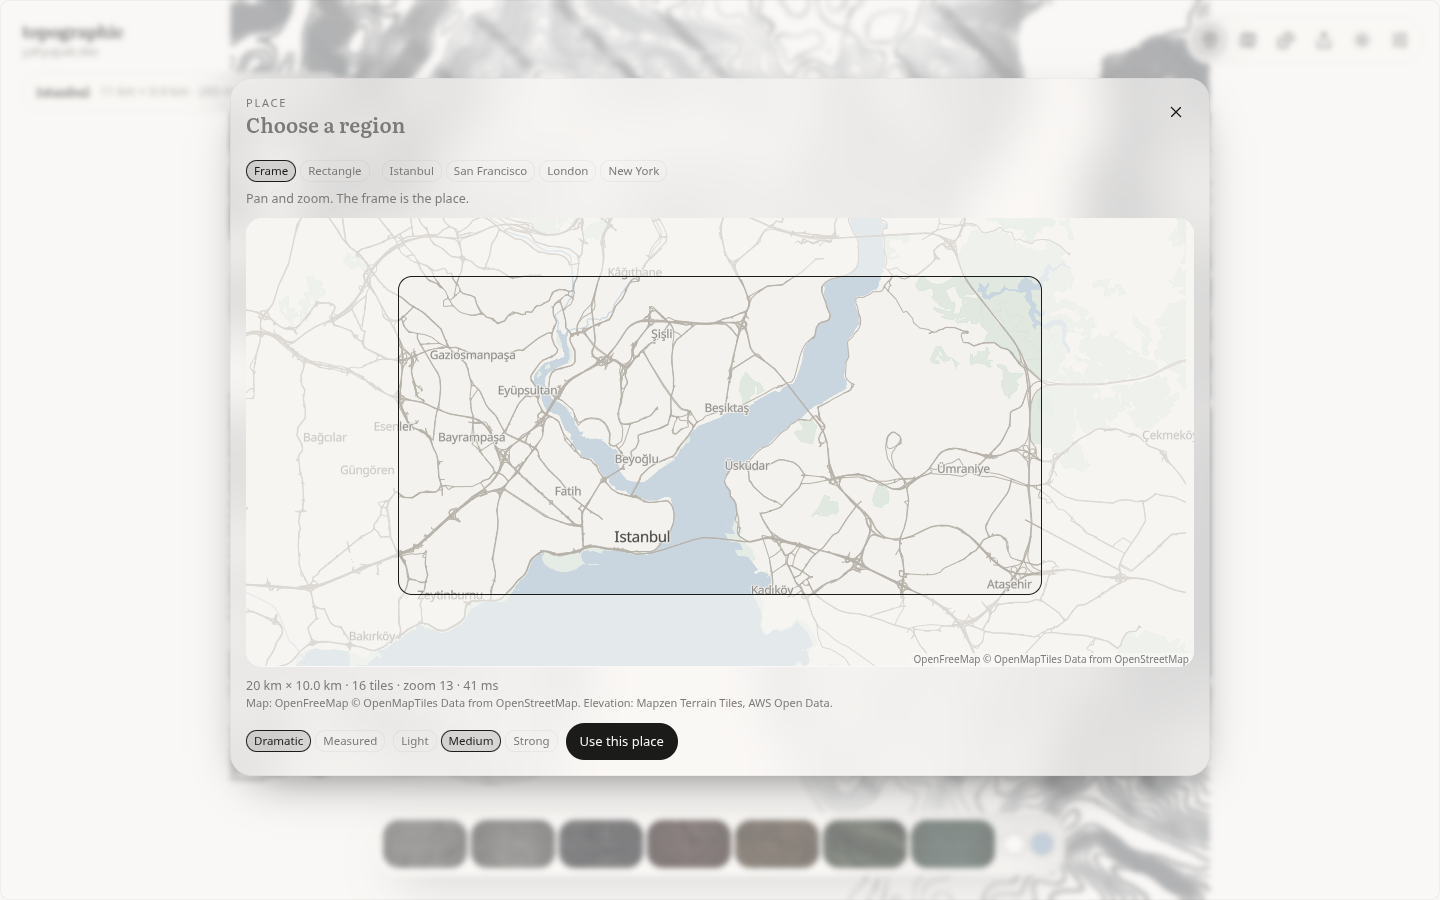
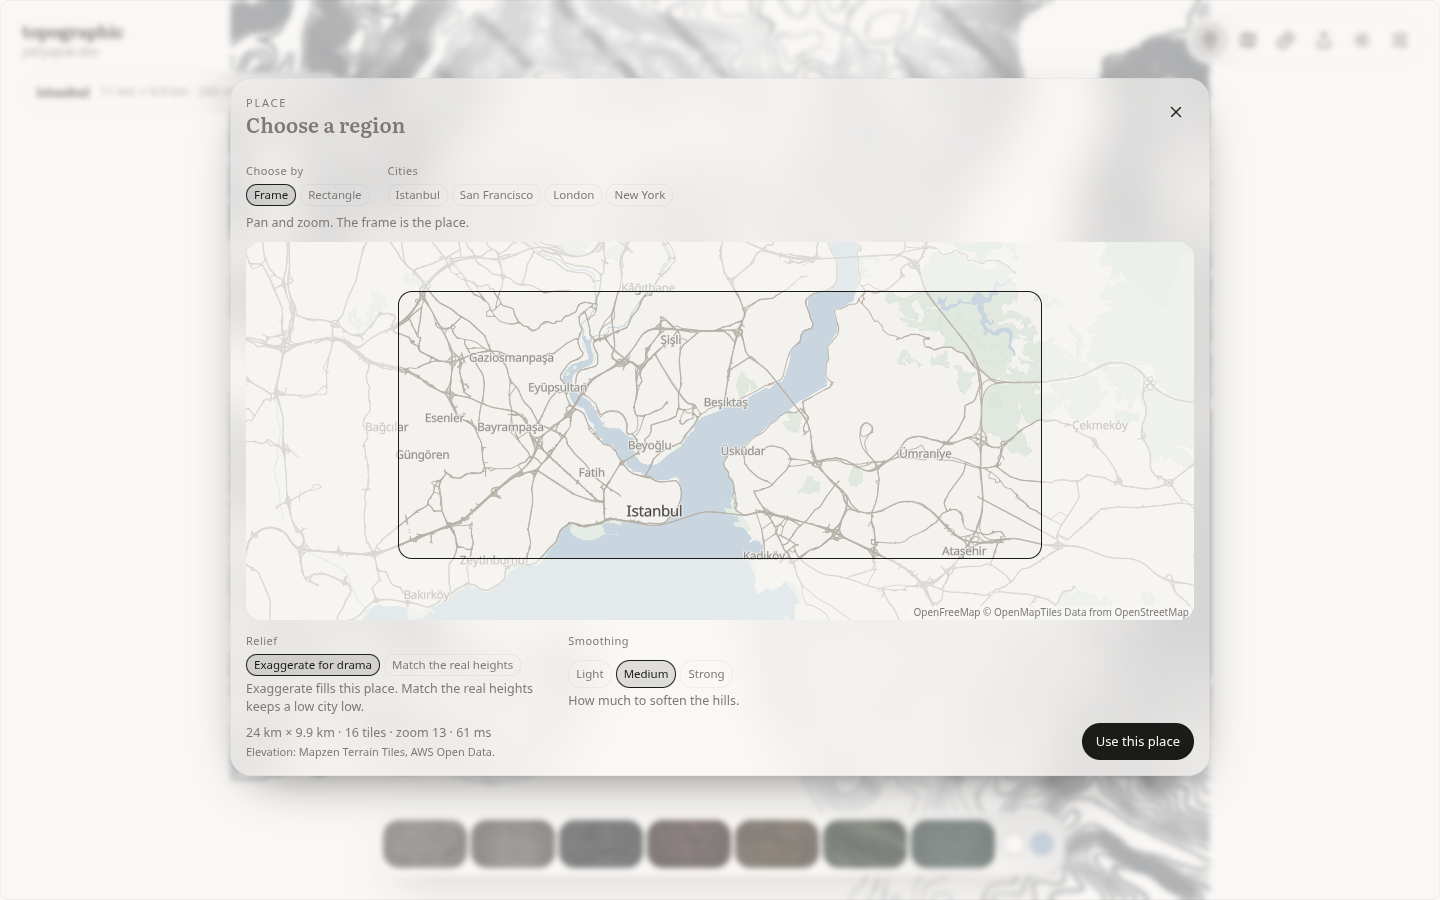
clarify the place dialog
- the line under the map keeps the elevation credit, and the map control keeps the tile credit
- relief and smoothing say what they change, and use this place sits at the bottom right
- the picker shots are reshot in light and dark

diff --git a/apps/playground/src/prototype/region/Picker.tsx b/apps/playground/src/prototype/region/Picker.tsx
@@ -6,7 +6,7 @@ import 'maplibre-gl/dist/maplibre-gl.css';
 
 setWorkerUrl(maplibreWorkerUrl);
 import { limitMessage, limitProblem, spanOf, type BBox } from './pipeline';
-import { MAP_CREDIT, mapStyle, type MapAppearance } from './basemap';
+import { mapStyle, type MapAppearance } from './basemap';
 import { findPlace, FRAME, PLACES } from './places';
 import type { RegionController } from './useRegion';
 
@@ -184,55 +184,71 @@ export function PlaceSheet({ open, onClose, region, appearance }: {
           </div>
           <button type="button" className="pt-ibtn" aria-label="Close" onClick={onClose}><X size={18} strokeWidth={1.75} /></button>
         </div>
-        <div className="pt-place-bar">
-          <div className="pt-chips" role="group" aria-label="How to pick">
-            <button type="button" className={`pt-chip${pick === 'frame' ? ' is-on' : ''}`} onClick={() => setPick('frame')}>Frame</button>
-            <button type="button" className={`pt-chip${pick === 'draw' ? ' is-on' : ''}`} onClick={() => setPick('draw')}>Rectangle</button>
+        <div className="pt-dialog-body pt-place-body">
+          <div className="pt-place-bar">
+            <div className="pt-field">
+              <span className="pt-field-name" id="pick-label">Choose by</span>
+              <div className="pt-chips" role="group" aria-labelledby="pick-label">
+                <button type="button" className={`pt-chip${pick === 'frame' ? ' is-on' : ''}`} onClick={() => setPick('frame')}>Frame</button>
+                <button type="button" className={`pt-chip${pick === 'draw' ? ' is-on' : ''}`} onClick={() => setPick('draw')}>Rectangle</button>
+              </div>
+            </div>
+            <div className="pt-field">
+              <span className="pt-field-name" id="city-label">Cities</span>
+              <div className="pt-chips" role="group" aria-labelledby="city-label">
+                {PLACES.map((place) => (
+                  <button key={place.id} type="button" className="pt-chip" onClick={() => { fly(place.bbox); region.setPlace(place.bbox, place.id); }}>
+                    {place.name}
+                  </button>
+                ))}
+              </div>
+            </div>
+            <p className="pt-hint">{pick === 'frame' ? 'Pan and zoom. The frame is the place.' : 'Drag a rectangle. Scroll to zoom.'}</p>
           </div>
-          <div className="pt-chips">
-            {PLACES.map((place) => (
-              <button key={place.id} type="button" className="pt-chip" onClick={() => { fly(place.bbox); region.setPlace(place.bbox, place.id); }}>
-                {place.name}
-              </button>
-            ))}
+          <div className={`pt-frame pt-map${pick === 'draw' ? ' is-draw' : ''}`}>
+            <div ref={host} className="pt-map-host" />
+            {pick === 'frame' && <div ref={frame} className="pt-map-frame" />}
+            {pick === 'draw' && box && box.w > 0 && <div className="pt-map-box" style={{ left: box.x, top: box.y, width: box.w, height: box.h }} />}
           </div>
-          <p className="pt-hint">{pick === 'frame' ? 'Pan and zoom. The frame is the place.' : 'Drag a rectangle. Scroll to zoom.'}</p>
         </div>
-        <div className={`pt-frame pt-map${pick === 'draw' ? ' is-draw' : ''}`}>
-          <div ref={host} className="pt-map-host" />
-          {pick === 'frame' && <div ref={frame} className="pt-map-frame" />}
-          {pick === 'draw' && box && box.w > 0 && <div className="pt-map-box" style={{ left: box.x, top: box.y, width: box.w, height: box.h }} />}
-        </div>
-        <div className="pt-place-foot">
-          <div>
-            <p className="pt-hint">
+        <footer className="pt-place-foot">
+          <div className="pt-place-groups">
+            <div className="pt-field">
+              <span className="pt-field-name" id="relief-label">Relief</span>
+              <div className="pt-chips" role="group" aria-labelledby="relief-label">
+                <button type="button" className={`pt-chip${region.relief === 'dramatic' ? ' is-on' : ''}`} onClick={() => region.setRelief('dramatic')}>Exaggerate for drama</button>
+                <button type="button" className={`pt-chip${region.relief === 'measured' ? ' is-on' : ''}`} onClick={() => region.setRelief('measured')}>Match the real heights</button>
+              </div>
+              <p className="pt-hint">Exaggerate fills this place. Match the real heights keeps a low city low.</p>
+            </div>
+            <div className="pt-field">
+              <span className="pt-field-name" id="smooth-label">Smoothing</span>
+              <div className="pt-chips" role="group" aria-labelledby="smooth-label">
+                <button type="button" className={`pt-chip${region.smooth === 'light' ? ' is-on' : ''}`} onClick={() => region.setSmooth('light')}>Light</button>
+                <button type="button" className={`pt-chip${region.smooth === 'medium' ? ' is-on' : ''}`} onClick={() => region.setSmooth('medium')}>Medium</button>
+                <button type="button" className={`pt-chip${region.smooth === 'strong' ? ' is-on' : ''}`} onClick={() => region.setSmooth('strong')}>Strong</button>
+              </div>
+              <p className="pt-hint">How much to soften the hills.</p>
+            </div>
+          </div>
+          <p className="pt-hint pt-place-meta">
+            <span>
               {problem ? limitMessage(problem) : span ? `${km(span.widthM)} × ${km(span.heightM)}` : 'Draw a rectangle.'}
               {region.info && region.status === 'ready' ? ` · ${region.info.tiles} tiles · zoom ${region.info.zoom} · ${Math.round(region.info.shapeMs)} ms` : ''}
               {region.status === 'loading' ? ' · Reading the land…' : ''}
               {region.status === 'error' && region.error ? ` · ${region.error}` : ''}
-            </p>
-            <p className="pt-hint pt-attrib">Map: {MAP_CREDIT}. Elevation: Mapzen Terrain Tiles, AWS Open Data.</p>
-          </div>
-          <div className="pt-place-actions">
-            <div className="pt-chips" role="group" aria-label="Relief">
-              <button type="button" className={`pt-chip${region.relief === 'dramatic' ? ' is-on' : ''}`} onClick={() => region.setRelief('dramatic')}>Dramatic</button>
-              <button type="button" className={`pt-chip${region.relief === 'measured' ? ' is-on' : ''}`} onClick={() => region.setRelief('measured')}>Measured</button>
-            </div>
-            <div className="pt-chips" role="group" aria-label="Smoothing">
-              <button type="button" className={`pt-chip${region.smooth === 'light' ? ' is-on' : ''}`} onClick={() => region.setSmooth('light')}>Light</button>
-              <button type="button" className={`pt-chip${region.smooth === 'medium' ? ' is-on' : ''}`} onClick={() => region.setSmooth('medium')}>Medium</button>
-              <button type="button" className={`pt-chip${region.smooth === 'strong' ? ' is-on' : ''}`} onClick={() => region.setSmooth('strong')}>Strong</button>
-            </div>
-            <button
-              type="button"
-              className="pt-use"
-              disabled={!draft || !!problem}
-              onClick={() => { if (draft && !problem) { region.setPlace(draft, null); onClose(); } }}
-            >
-              Use this place
-            </button>
-          </div>
-        </div>
+            </span>
+            <span className="pt-attrib">Elevation: Mapzen Terrain Tiles, AWS Open Data.</span>
+          </p>
+          <button
+            type="button"
+            className="pt-use"
+            disabled={!draft || !!problem}
+            onClick={() => { if (draft && !problem) { region.setPlace(draft, null); onClose(); } }}
+          >
+            Use this place
+          </button>
+        </footer>
       </div>
     </>
   );

diff --git a/apps/playground/src/prototype/prototype.css b/apps/playground/src/prototype/prototype.css
@@ -126,9 +126,13 @@ button.pt-region-name{padding:0;border:0;background:transparent;box-shadow:none;
 button.pt-region-clear{padding:4px 8px;border:0;border-radius:999px;background:transparent;box-shadow:inset 0 0 0 .5px var(--line);color:var(--mut);font-size:11px}
 button.pt-use{padding:8px 14px;border:0;border-radius:999px;background:var(--fg);color:var(--paper);font-size:13px;white-space:nowrap}
 button.pt-use:disabled{opacity:.38}
-.pt-place{grid-template-rows:auto auto minmax(0,1fr) auto;gap:10px}
-.pt-place-bar{display:flex;flex-wrap:wrap;align-items:center;gap:8px 12px}
+.pt-place{grid-template-rows:auto minmax(0,1fr) auto;gap:12px}
+.pt-place-body{min-height:0;display:grid;grid-template-rows:auto minmax(0,1fr);gap:10px}
+.pt-place-bar{display:flex;flex-wrap:wrap;align-items:flex-end;gap:8px 18px}
 .pt-place-bar .pt-hint{flex-basis:100%;margin:0}
+.pt-field{display:grid;gap:4px;justify-items:start;min-width:0}
+.pt-field-name{font-size:11px;letter-spacing:.04em;color:var(--mut)}
+.pt-field .pt-hint{margin:0;max-width:42ch}
 .pt-map{position:relative}
 .pt-map-host{position:absolute;inset:0;background:var(--paper)}
 .pt-map-host .maplibregl-map{font-family:var(--sans)}
@@ -138,9 +142,10 @@ button.pt-use:disabled{opacity:.38}
 .pt-map.is-draw{cursor:crosshair}
 .pt-map-box{position:absolute;border:1.5px solid #fff;border-radius:8px;background:rgba(255,255,255,.08);box-shadow:0 0 0 999px rgba(0,0,0,.38);pointer-events:none}
 :root[data-theme=light] .pt-map-frame,:root[data-theme=light] .pt-map-box{border-color:#1b1b1a;box-shadow:0 0 0 999px rgba(249,248,246,.55)}
-.pt-place-foot{display:flex;justify-content:space-between;gap:12px;align-items:flex-end;flex-wrap:wrap}
-.pt-place-foot .pt-hint{margin:0}
-.pt-place-actions{display:flex;flex-wrap:wrap;gap:8px;align-items:center;justify-content:flex-end}
+.pt-place-foot{display:grid;grid-template-columns:minmax(0,1fr) auto;grid-template-areas:"groups action" "meta action";gap:8px 16px;align-items:end}
+.pt-place-groups{grid-area:groups;display:flex;flex-wrap:wrap;gap:12px 22px;min-width:0}
+.pt-place-meta{grid-area:meta;margin:0;display:grid;gap:2px}
+.pt-place-foot .pt-use{grid-area:action;align-self:end}
 .pt-attrib{font-size:11px}
 .pt-x-beside,.pt-x-stage{display:grid;grid-template-columns:minmax(0,.9fr) minmax(0,1.2fr);gap:14px;height:100%;min-height:0}
 .pt-x-side{display:grid;grid-template-rows:auto minmax(0,1fr);gap:10px;min-height:0}
@@ -208,6 +213,7 @@ button.pt-fmt[aria-pressed="true"]{background:color-mix(in srgb,var(--fg) 14%,tr
   .pt-grid{grid-template-columns:1fr}
   .pt-strip{grid-template-columns:76px minmax(0,1fr) auto auto}
   .pt-dialog{top:58px;right:8px;bottom:124px;left:8px;width:auto;height:auto;transform:none;padding:12px}
+  .pt-place-groups{flex-direction:column;gap:10px}
   .pt-x-beside,.pt-x-stage,.pt-x-rail{grid-template-columns:1fr;grid-template-rows:150px minmax(0,1fr)}
   .pt-x-rail{grid-template-rows:auto 140px minmax(0,1fr)}
   .pt-fmtrail{flex-direction:row;flex-wrap:wrap;height:auto}

diff --git a/docs/prototypes/region/README.md b/docs/prototypes/region/README.md
@@ -20,7 +20,7 @@ That builds the packages, starts Vite and opens `/?variant=P2`. 2D is the defaul
 
 `region` is `west,south,east,north` in degrees. A JSON value works too: `{"bbox":[28.94,40.99,29.07,41.08]}` or `{"west":28.94,"south":40.99,"east":29.07,"north":41.08}`. `relief=measured` opts out of the dramatic stretch. `smooth=light` or `smooth=strong` opts out of medium. The same `config` query as the rest of the playground still sets the style, colours and camera. An explicit `elevation` in that config is kept. Without one, a place opens at 0.1.
 
-Place opens a map. Frame (the default) uses pan and zoom, and the inset rectangle is the place. Rectangle is a drag. The four chips load those cities immediately. Use this place commits whatever the frame or the drag currently covers. The map uses the quiet paper style. Add `basemap=liberty` to open the previous OpenFreeMap Liberty style instead.
+Place opens a map. Choose by Frame (the default) and pan and zoom, or choose Rectangle and drag. The city chips load Istanbul, San Francisco, London and New York. Relief is Exaggerate for drama, which fills the block, or Match the real heights, which keeps a low city low. Smoothing is Light, Medium or Strong, and the line under it says it softens the hills. Use this place sits at the bottom right and commits whatever the frame or the drag currently covers. The map uses the quiet paper style. Add `basemap=liberty` to open the previous OpenFreeMap Liberty style instead.
 
 Regenerate the screenshots while that dev server is running:
 
@@ -52,7 +52,7 @@ A load of one of these cities took about 6 seconds in this browser. Almost all o
 
 ## Decisions
 
-**Map.** [MapLibre GL JS](https://maplibre.org/) 6.14.0. The default picker is our own quiet style on [OpenFreeMap](https://openfreemap.org/) vector tiles (`https://tiles.openfreemap.org/planet`). No API key, no account, no view cap. Land, water, thin roads, and place names follow the playground paper and ink, in light and in dark. Pins, shields, and rail hatching are left out. `basemap=liberty` still loads `https://tiles.openfreemap.org/styles/liberty` when you want the previous look beside this one. The map stays flat. MapLibre shows the tile credit, and the dialog repeats it.
+**Map.** [MapLibre GL JS](https://maplibre.org/) 6.14.0. The default picker is our own quiet style on [OpenFreeMap](https://openfreemap.org/) vector tiles (`https://tiles.openfreemap.org/planet`). No API key, no account, no view cap. Land, water, thin roads, and place names follow the playground paper and ink, in light and in dark. Pins, shields, and rail hatching are left out. `basemap=liberty` still loads `https://tiles.openfreemap.org/styles/liberty` when you want the previous look beside this one. The map stays flat. MapLibre shows the tile credit on the map. The line under the map is only the elevation credit.
 
 A Protomaps planet PMTiles file is about 120 GB. GitHub Pages allows a 1 GB site and 100 MB per file, and Cloudflare R2's free tier stores 10 GB, so a full planet is not an unlimited free host. A low-zoom world plus these four cities would fit on Pages, and any other place would go soft once you zoomed in. OpenFreeMap's public tiles are the unlimited, keyless way to cover every place through zoom 14, and the style is ours. The tiles remain theirs.
 
@@ -92,7 +92,7 @@ A region mesh is at least 192 by 192. The detail slider still tops out at 160 fo
 
 ## Attribution
 
-The map control and the dialog credit OpenFreeMap, OpenMapTiles and OpenStreetMap: `OpenFreeMap © OpenMapTiles Data from OpenStreetMap`. Elevation follows the [Tilezen / joerd attribution](https://github.com/tilezen/joerd/blob/master/docs/attribution.md). Terrain Tiles was accessed in October 2026 from <https://registry.opendata.aws/terrain-tiles>.
+The map control credits OpenFreeMap, OpenMapTiles and OpenStreetMap: `OpenFreeMap © OpenMapTiles Data from OpenStreetMap`. That line is not repeated under the map. Elevation follows the [Tilezen / joerd attribution](https://github.com/tilezen/joerd/blob/master/docs/attribution.md). Terrain Tiles was accessed in October 2026 from <https://registry.opendata.aws/terrain-tiles>.
 
 - Mapzen
 - ArcticDEM terrain data DEM(s) were created from DigitalGlobe, Inc., imagery and funded under National Science Foundation awards 1043681, 1559691, and 1542736
